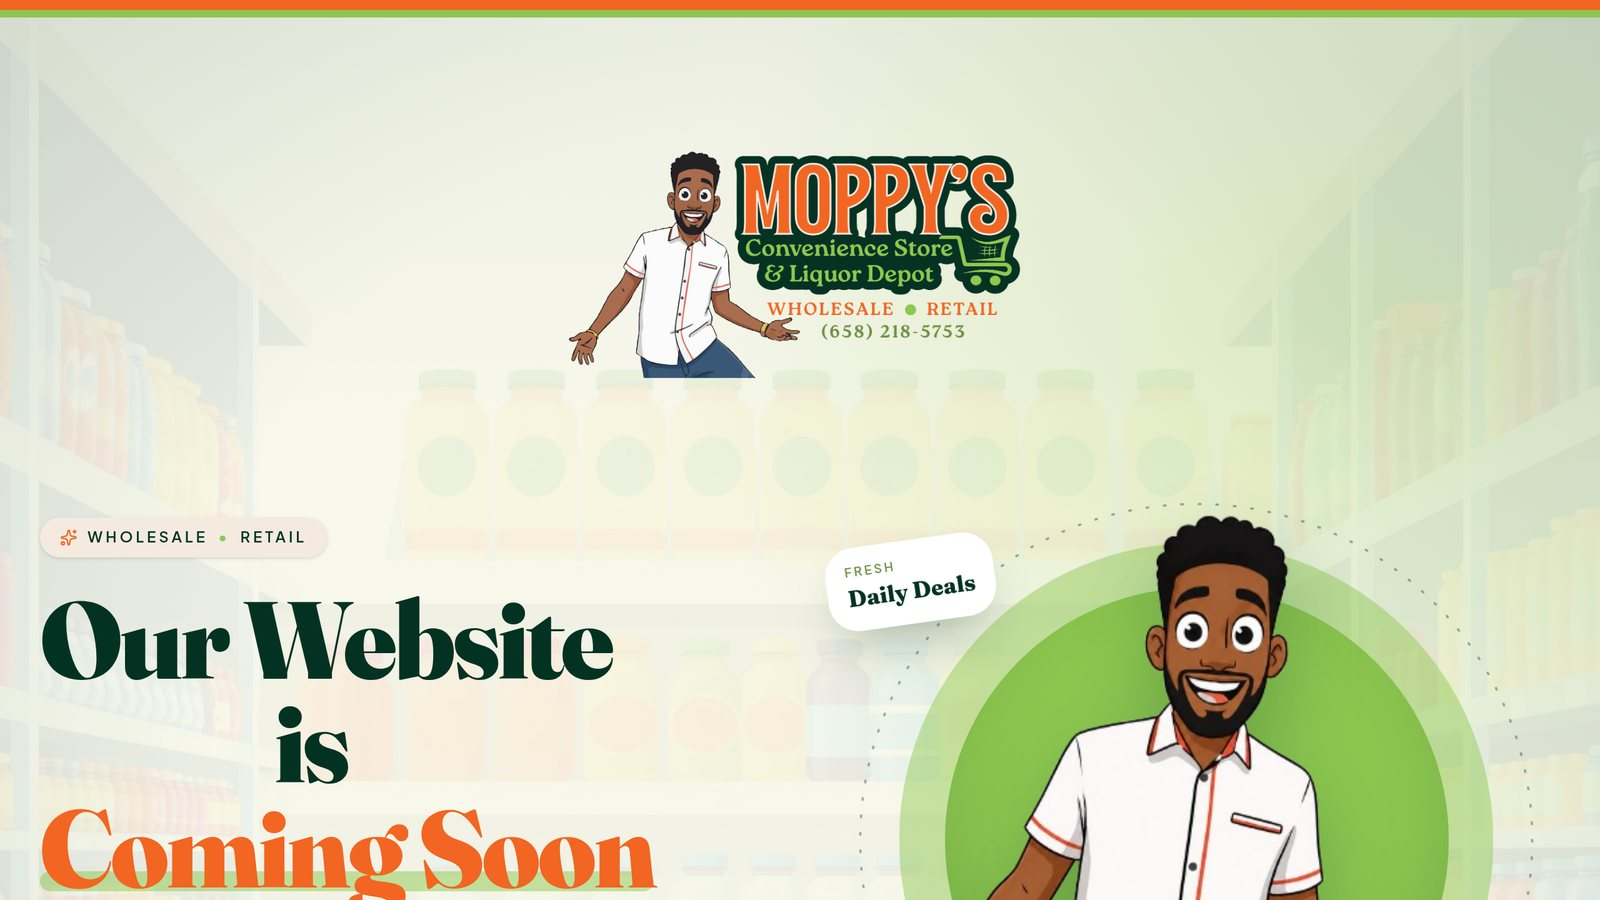
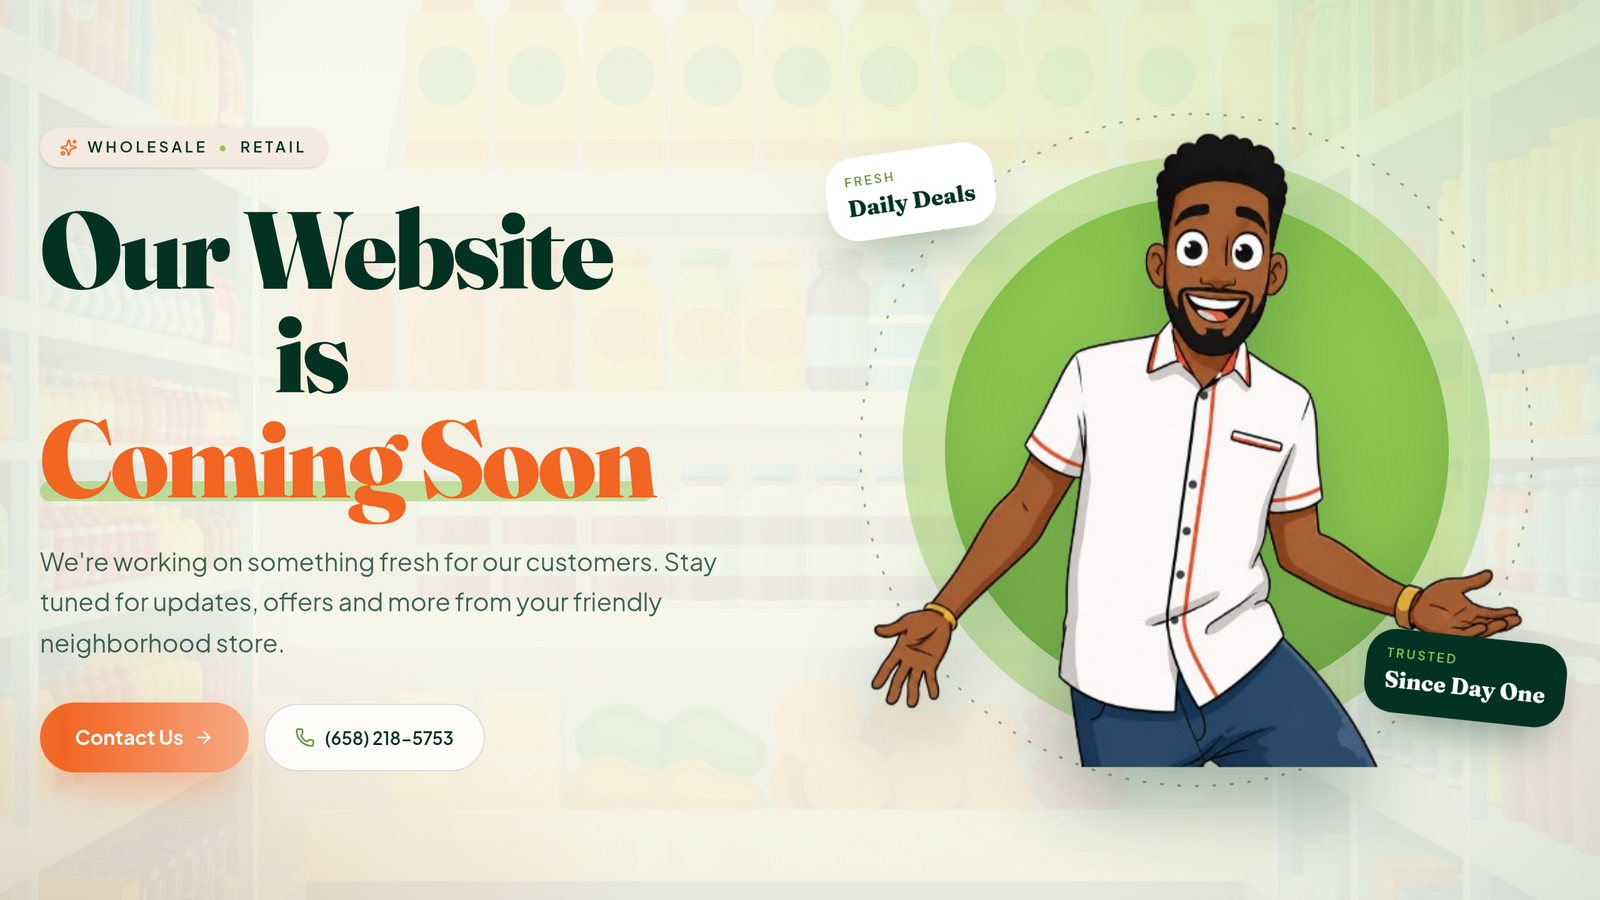
Changes

diff --git a/src/data/portfolioData.ts b/src/data/portfolioData.ts
@@ -3,6 +3,33 @@ import { Project } from "@/types/portfolio";
 
 export const projects: Project[] = [
   {
+    id: 21,
+    title: "Data & Cybersecurity Limited",
+    description: "A corporate advisory website for a Jamaican cybersecurity and data protection firm, covering cybersecurity advisory, data protection and privacy, AI governance, data analytics, and digital transformation, with urgent incident-response and digital-risk reporting paths, service pages, and an FAQ.",
+    image: "/lovable-uploads/data-and-cybersecurity.jpg",
+    projectUrl: "https://dataandcyber.com/",
+    technologies: ["React", "TypeScript", "Tailwind CSS", "Responsive Design"],
+    category: "Web Development"
+  },
+  {
+    id: 20,
+    title: "Moppy's Convenience Store & Liquor Depot",
+    description: "A coming soon landing page for a wholesale and retail convenience store and liquor depot in Ocho Rios, featuring friendly mascot branding, daily deals highlights, and click to call, email, and visit us contact details.",
+    image: "/lovable-uploads/moppys-enterprise.jpg",
+    projectUrl: "https://moppysenterprise.com/",
+    technologies: ["React", "TypeScript", "Tailwind CSS", "Responsive Design"],
+    category: "Web Development"
+  },
+  {
+    id: 19,
+    title: "Reps N Results Calorie Calculator",
+    description: "A standalone calorie and macro calculator that estimates daily calorie and macronutrient targets from age, weight, height, sex, and activity level, with metric and imperial unit switching in a clean dark themed interface.",
+    image: "/lovable-uploads/reps-calorie-calculator.jpg",
+    projectUrl: "https://calorie-calculator.mtechcorpja.com/",
+    technologies: ["React", "TypeScript", "Tailwind CSS", "Responsive Design"],
+    category: "Web Development"
+  },
+  {
     id: 18,
     title: "Reps N Results",
     description: "A beginner friendly fitness web app with a calorie and protein calculator, weekly gym plans, and a plain language gym terminology guide, wrapped in a modern dark themed responsive UI.",
